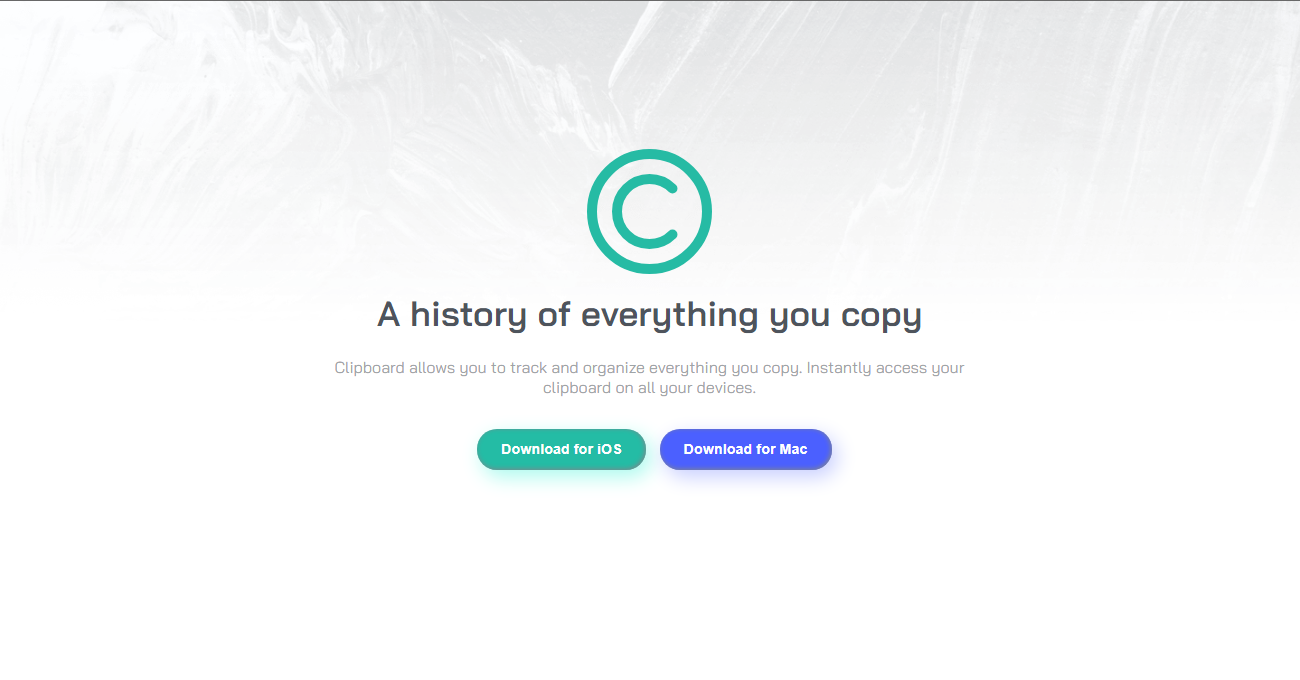
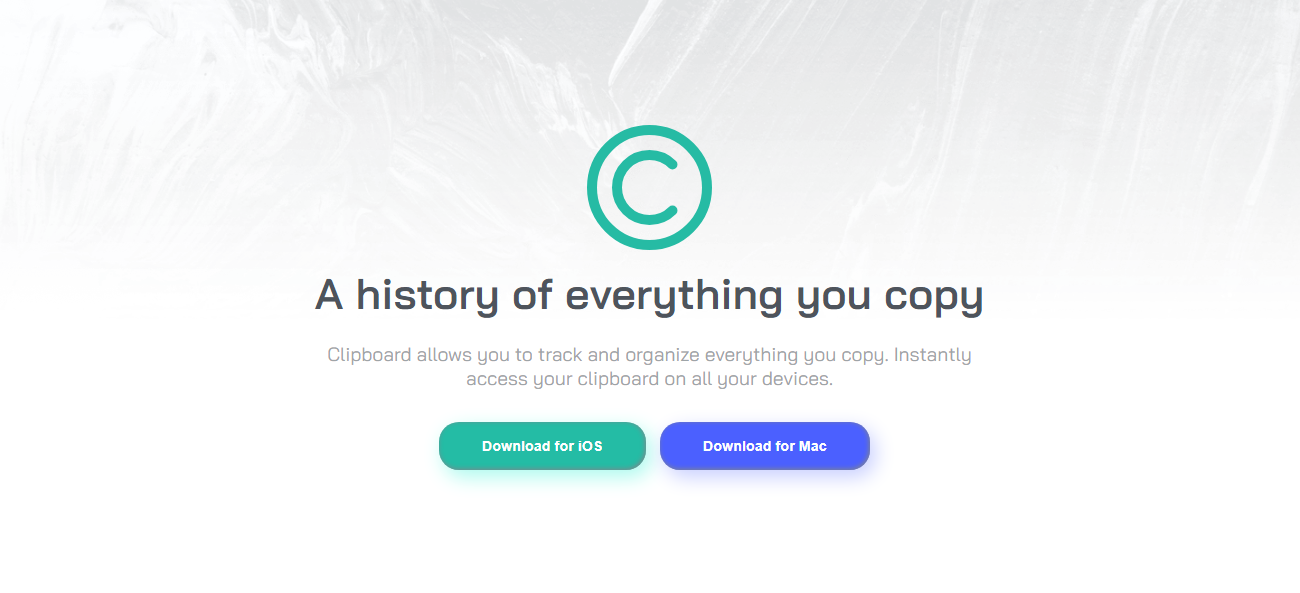
Adding the last updates

Changed region(s): [[0.2462, 0.425, 0.7692, 0.8196], [0.4308, 0.3339, 0.5538, 0.425], [0.4615, 0.2125, 0.5538, 0.2732]]

diff --git a/dist/styles.css b/dist/styles.css
@@ -1,1 +1,1 @@
-html{box-sizing:border-box}*,::before,::after{box-sizing:inherit;margin:0;padding:0}body{font-family:"Bai Jamjuree",sans-serif}h1,h2,h3{font-weight:600;line-height:1.1}a,a:visited,a:active{text-decoration:none}.bg-container{background-image:url(https://github.com/BlackFury117/Clipboard-landing-page/blob/main/images/bg-header-desktop.png?raw=true);background-repeat:no-repeat;background-size:contain;display:flex;justify-content:center;align-items:center}.bg-container .container{display:grid;grid-template-columns:repeat(3, 1fr);grid-template-rows:repeat(3, 0.5fr);gap:0px 0px;grid-auto-flow:row;justify-content:center;align-content:center;justify-items:center;align-items:center;grid-template-areas:"hero-img hero-img hero-img" "text-zone text-zone text-zone" "btn-zone btn-zone btn-zone";width:700px;margin-bottom:5rem}.bg-container .container .hero-img{grid-area:hero-img;margin-bottom:.5rem;margin-top:3rem}.bg-container .container .text-zone{grid-area:text-zone;text-align:center}.bg-container .container .text-zone h1{font-size:2.2rem;color:#4e545c;margin-bottom:1.5rem}.bg-container .container .text-zone .hero-text{color:#9ea4a7;margin-bottom:2rem}.bg-container .container .btn-zone{grid-area:btn-zone;align-self:start}.bg-container .container .btn-zone .btn{cursor:pointer;background-color:#24bca5;color:#fff;box-shadow:5px 7px 20px 0px #acfaee,inset -1px -1px 5px #81868c;font-size:.9rem;font-weight:bold;padding:.8rem 1.5rem;border:none;border-radius:20px;margin-left:.6rem}.bg-container .container .btn-zone .btn:hover{background-color:#50cdba;transition:.35s linear}.bg-container .container .btn-zone .btn-two{cursor:pointer;background-color:#24bca5;color:#fff;box-shadow:5px 7px 20px 0px #acfaee,inset -1px -1px 5px #81868c;font-size:.9rem;font-weight:bold;padding:.8rem 1.5rem;border:none;border-radius:20px;margin-left:.6rem;background-color:#4b60ff;box-shadow:5px 7px 20px 0px #c8cfff,inset -1px -1px 5px #81868c}.bg-container .container .btn-zone .btn-two:hover{background-color:#50cdba;transition:.35s linear}.bg-container .container .btn-zone .btn-two:hover{background-color:#828eee}@media only screen and (max-width: 600px){.bg-container{background-image:url(https://github.com/BlackFury117/Clipboard-landing-page/blob/main/images/bg-header-mobile.png?raw=true);background-repeat:no-repeat;background-size:contain;padding:0 1.5rem}.container{margin-bottom:1rem}.btn-zone{display:flex;flex-direction:column;align-items:center;width:100%}.btn,.btn-two{width:100%;margin-left:0 !important}.btn{margin-bottom:1.5rem}}.text{text-align:center;margin:0 auto 4rem auto;width:700px}.text h2{font-size:2.2rem;color:#4e545c;margin-bottom:1.5rem}.text .paragraph{color:#9ea4a7}.second-container{display:grid;grid-template-columns:1fr 1fr;grid-template-rows:1fr;gap:0px 0px;grid-auto-flow:row;grid-template-areas:"img-section text-section";margin-bottom:5rem}.second-container .img-section{grid-area:img-section}.second-container .img-one{width:90%;position:relative;left:-1.5rem}.second-container .text-section{align-self:center;grid-area:text-section;width:350px}.second-container .head{font-size:1.4rem;font-weight:bold;color:#4e545c}.second-container .body{color:#9ea4a7;margin-bottom:2rem;line-height:1.5}@media only screen and (max-width: 600px){.text{width:100%;padding:0 1.5rem}.second-container{display:grid;grid-template-columns:1fr;grid-template-rows:1fr 1fr;grid-auto-flow:row;grid-template-areas:"img-section" "text-section";padding:0 1.5rem}.second-container .img-section{align-self:center;grid-area:img-section}.second-container .text-section{align-self:center;grid-area:text-section}.second-container .img-one{position:static;width:100%;margin-bottom:2rem}.second-container .head,.second-container .body{text-align:center}}.third-section{text-align:center;margin:0 auto 4rem auto;width:700px}.third-section h3{font-size:2.2rem;color:#4e545c;margin-bottom:1.5rem}.third-section .paragraph-3{color:#9ea4a7;margin-bottom:3.6rem}.third-section .img-div{text-align:center;margin:0 auto;width:700px}@media only screen and (max-width: 600px){.third-section{width:100%;padding:0 1.5rem}.third-section .img-div{width:100%}}.fourth{text-align:center}.fourth h4{font-size:2.2rem;color:#4e545c;margin-bottom:1.5rem}.fourth .para-fourth{color:#9ea4a7;margin-bottom:3rem}.fourth-container{display:grid;grid-template-columns:1fr 1fr 1fr;grid-template-rows:1fr 1fr;gap:40px 0px;grid-auto-flow:row;grid-template-areas:"tools tools tools" "brand brand brand";margin:0 6rem 2rem 6rem}.fourth-container .tools{display:grid;grid-template-columns:1fr 1fr 1fr;grid-template-rows:1fr 1fr;gap:0px 25px;grid-auto-flow:row;grid-template-areas:"icon-1 icon-2 icon-3" "body-1 body-2 body-3";grid-area:tools}.fourth-container .icon-1{grid-area:icon-1;justify-self:center;align-self:center}.fourth-container .icon-2{grid-area:icon-2;justify-self:center;align-self:center}.fourth-container .icon-3{grid-area:icon-3;justify-self:center;align-self:center}.fourth-container .body-1{grid-area:body-1}.fourth-container .body-2{grid-area:body-2}.fourth-container .body-3{grid-area:body-3}.fourth-container .first{font-size:1.2rem;font-weight:bold;color:#4e545c;text-align:center;margin-bottom:1.2rem}.fourth-container .second{color:#9ea4a7;text-align:center}.fourth-container .brand{display:grid;grid-template-columns:1fr 1fr 1fr 1fr 1fr;grid-template-rows:1fr;gap:0px 0px;grid-auto-flow:row;grid-template-areas:"brand-1 brand-2 brand-3 brand-4 brand-5";grid-area:brand}.fourth-container .brand-1{grid-area:brand-1;justify-self:center;align-self:center}.fourth-container .brand-2{grid-area:brand-2;justify-self:center;align-self:center}.fourth-container .brand-3{grid-area:brand-3;justify-self:center;align-self:center}.fourth-container .brand-4{grid-area:brand-4;justify-self:center;align-self:center}.fourth-container .brand-5{grid-area:brand-5;justify-self:center;align-self:center}@media only screen and (max-width: 600px){.fourth{padding:0 1.5rem}.fourth-container{display:grid;grid-template-columns:1fr;grid-template-rows:1fr 1fr 1fr;grid-auto-flow:row;grid-template-areas:"tools" "tools" "tools" "brand" "brand" "brand";margin:0;padding:0 1.5rem}.fourth-container .tools{display:grid;grid-template-columns:1fr;grid-template-rows:1fr 1fr 1fr;gap:0px 0px;grid-auto-flow:row;grid-template-areas:"icon-1" "body-1" "icon-2" "body-2" "icon-3" "body-3";grid-area:tools;margin-bottom:6rem}.fourth-container .icon-3{margin-bottom:1.7rem}.fourth-container .body-1{margin-bottom:1.5rem}.fourth-container .body-2{margin-bottom:3.5rem}.fourth-container .brand{display:grid;grid-template-columns:1fr;grid-template-rows:1fr 1fr 1fr 1fr 1fr;gap:0px 0px;grid-auto-flow:row;grid-template-areas:"brand-1" "brand-2" "brand-3" "brand-4" "brand-5";grid-area:brand;margin-bottom:5rem}.fourth-container .brand-1,.fourth-container .brand-2,.fourth-container .brand-3,.fourth-container .brand-4{margin-bottom:2.7rem}}.last-section{text-align:center;width:700px;margin:0 auto 7rem auto}.last-section h5{font-size:2.2rem;color:#4e545c;margin-bottom:1.5rem}.last-section .last-paragraph{color:#9ea4a7;margin-bottom:2.5rem}.last-section .btn{cursor:pointer;background-color:#24bca5;color:#fff;box-shadow:5px 7px 20px 0px #acfaee,inset -1px -1px 5px #81868c;font-size:.9rem;font-weight:bold;padding:.8rem 1.5rem;border:none;border-radius:20px;margin-left:.6rem}.last-section .btn:hover{background-color:#50cdba;transition:.35s linear}.last-section .btn-two{cursor:pointer;background-color:#24bca5;color:#fff;box-shadow:5px 7px 20px 0px #acfaee,inset -1px -1px 5px #81868c;font-size:.9rem;font-weight:bold;padding:.8rem 1.5rem;border:none;border-radius:20px;margin-left:.6rem;background-color:#4b60ff;box-shadow:5px 7px 20px 0px #939fff,inset -1px -1px 5px #81868c}.last-section .btn-two:hover{background-color:#50cdba;transition:.35s linear}.last-section .btn-two:hover{background-color:#828eee}@media only screen and (max-width: 600px){.last-section{width:100%;padding:0 1.5rem;margin:0 auto 8rem auto}}.footer-container{display:grid;grid-template-columns:1fr 1fr 1fr 1fr 1fr;grid-template-rows:1fr;gap:0px 0px;grid-auto-flow:row;grid-template-areas:"footer-1 footer-2 footer-3 footer-4 footer-5";background-color:#f5f6f8;padding:2rem 6rem 2rem 6rem}.footer-container .footer-1{grid-area:footer-1}.footer-container .footer-img{width:50px}.footer-container .footer-2{display:grid;grid-template-columns:1fr;grid-template-rows:1fr 1fr;gap:0px 0px;grid-auto-flow:row;grid-template-areas:"faq" "contact";grid-area:footer-2}.footer-container .faq{grid-area:faq}.footer-container .contact{grid-area:contact}.footer-container .footer-3{display:grid;grid-template-columns:1fr;grid-template-rows:1fr 1fr;gap:0px 0px;grid-auto-flow:row;grid-template-areas:"privacy" "press";grid-area:footer-3;color:#9ea4a7}.footer-container .privacy{grid-area:privacy;color:#9ea4a7}.footer-container .press{grid-area:press;color:#9ea4a7}.footer-container .footer-4{grid-area:footer-4;color:#9ea4a7}.footer-container .footer-5{grid-area:footer-5;justify-self:end}.footer-container .icon-footer{padding-right:.8rem}.footer-container .link{color:#9ea4a7}.footer-container .link:hover{color:#24bca5;font-weight:bold}.footer-container .icon-footer{color:#4b545a}.footer-container .icon-footer:hover{cursor:pointer;color:#24bca5}@media only screen and (max-width: 600px){.footer-container{display:grid;grid-template-columns:1fr;grid-template-rows:1fr 1fr 1fr 1fr 1fr;justify-items:center;gap:0px 0px;grid-auto-flow:row;grid-template-areas:"footer-1" "footer-2" "footer-3" "footer-4" "footer-5"}.footer-container .footer-1{margin-bottom:1.5rem}.footer-container .footer-5{justify-self:center}.footer-container .faq,.footer-container .contact,.footer-container .privacy,.footer-container .press{justify-self:center}.footer-container .icon-footer{font-size:2rem}}/*# sourceMappingURL=styles.css.map */
+html{box-sizing:border-box}*,::before,::after{box-sizing:inherit;margin:0;padding:0}body{font-family:"Bai Jamjuree",sans-serif}h1,h2,h3{font-weight:600;line-height:1.1}a,a:visited,a:active{text-decoration:none}.bg-container{background-image:url(https://github.com/BlackFury117/Clipboard-landing-page/blob/main/images/bg-header-desktop.png?raw=true);background-repeat:no-repeat;background-size:contain;display:flex;justify-content:center;align-items:center}.bg-container .container{display:grid;grid-template-columns:repeat(3, 1fr);grid-template-rows:repeat(3, 0.5fr);gap:0px 0px;grid-auto-flow:row;justify-content:center;align-content:center;justify-items:center;align-items:center;grid-template-areas:"hero-img hero-img hero-img" "text-zone text-zone text-zone" "btn-zone btn-zone btn-zone";width:700px;margin-bottom:5rem}.bg-container .container .hero-img{grid-area:hero-img;margin-bottom:.5rem;margin-top:3rem}.bg-container .container .text-zone{grid-area:text-zone;text-align:center}.bg-container .container .text-zone h1{font-size:2.2rem;color:#4e545c;margin-bottom:1.5rem;font-size:2.7rem}.bg-container .container .text-zone .hero-text{font-size:1.2rem;color:#9ea4a7;margin-bottom:2rem}.bg-container .container .btn-zone{grid-area:btn-zone;align-self:start}.bg-container .container .btn-zone .btn{cursor:pointer;background-color:#24bca5;color:#fff;box-shadow:5px 7px 20px 0px #acfaee,inset -1px -1px 5px #81868c;font-size:.9rem;font-weight:bold;padding:1rem 2.7rem;border:none;border-radius:20px;margin-left:.6rem}.bg-container .container .btn-zone .btn:hover{background-color:#50cdba;transition:.35s linear}.bg-container .container .btn-zone .btn-two{cursor:pointer;background-color:#24bca5;color:#fff;box-shadow:5px 7px 20px 0px #acfaee,inset -1px -1px 5px #81868c;font-size:.9rem;font-weight:bold;padding:1rem 2.7rem;border:none;border-radius:20px;margin-left:.6rem;background-color:#4b60ff;box-shadow:5px 7px 20px 0px #c8cfff,inset -1px -1px 5px #81868c}.bg-container .container .btn-zone .btn-two:hover{background-color:#50cdba;transition:.35s linear}.bg-container .container .btn-zone .btn-two:hover{background-color:#828eee}@media only screen and (max-width: 600px){.bg-container{background-image:url(https://github.com/BlackFury117/Clipboard-landing-page/blob/main/images/bg-header-mobile.png?raw=true);background-repeat:no-repeat;background-size:contain;padding:0 1.5rem;margin-bottom:2rem}h1{font-size:2.1rem !important}.btn-zone{display:flex;flex-direction:column;align-items:center;width:100%}.btn,.btn-two{width:100%;margin-left:0 !important}.btn{margin-bottom:1.5rem}}.text{text-align:center;margin:0 auto 4rem auto;width:700px}.text h2{font-size:2.2rem;color:#4e545c;margin-bottom:1.5rem}.text .paragraph{color:#9ea4a7}.second-container{display:grid;grid-template-columns:1fr 1fr;grid-template-rows:1fr;gap:0px 0px;grid-auto-flow:row;grid-template-areas:"img-section text-section";margin-bottom:5rem}.second-container .img-section{grid-area:img-section}.second-container .img-one{width:90%;position:relative;left:-1.7rem}.second-container .text-section{align-self:center;grid-area:text-section;width:350px}.second-container .head{font-size:1.4rem;font-weight:bold;color:#4e545c}.second-container .body{color:#9ea4a7;margin-bottom:2rem;line-height:1.5}@media only screen and (max-width: 600px){.text{width:100%;padding:0 1.5rem}.second-container{display:grid;grid-template-columns:1fr;grid-template-rows:1fr 1fr;grid-auto-flow:row;grid-template-areas:"img-section" "text-section";padding:0 1.5rem}.second-container .img-section{align-self:center;grid-area:img-section}.second-container .text-section{align-self:center;grid-area:text-section}.second-container .img-one{position:static;width:100%;margin-bottom:2rem}.second-container .head,.second-container .body{text-align:center}}.third-section{text-align:center;margin:0 auto 4rem auto;width:700px}.third-section h3{font-size:2.2rem;color:#4e545c;margin-bottom:1.5rem}.third-section .paragraph-3{color:#9ea4a7;margin-bottom:3.6rem}.third-section .img-div{text-align:center;margin:0 auto;width:700px}@media only screen and (max-width: 600px){.third-section{width:100%;padding:0 1.5rem}.third-section .img-div{width:100%}}.fourth{text-align:center}.fourth h4{font-size:2.2rem;color:#4e545c;margin-bottom:1.5rem}.fourth .para-fourth{color:#9ea4a7;margin-bottom:3rem}.fourth-container{display:grid;grid-template-columns:1fr 1fr 1fr;grid-template-rows:1fr 1fr;gap:40px 0px;grid-auto-flow:row;grid-template-areas:"tools tools tools" "brand brand brand";margin:0 6rem 2rem 6rem}.fourth-container .tools{display:grid;grid-template-columns:1fr 1fr 1fr;grid-template-rows:1fr 1fr;gap:0px 25px;grid-auto-flow:row;grid-template-areas:"icon-1 icon-2 icon-3" "body-1 body-2 body-3";grid-area:tools}.fourth-container .icon-1{grid-area:icon-1;justify-self:center;align-self:center}.fourth-container .icon-2{grid-area:icon-2;justify-self:center;align-self:center}.fourth-container .icon-3{grid-area:icon-3;justify-self:center;align-self:center}.fourth-container .body-1{grid-area:body-1}.fourth-container .body-2{grid-area:body-2}.fourth-container .body-3{grid-area:body-3}.fourth-container .first{font-size:1.2rem;font-weight:bold;color:#4e545c;text-align:center;margin-bottom:1.2rem}.fourth-container .second{color:#9ea4a7;text-align:center}.fourth-container .brand{display:grid;grid-template-columns:1fr 1fr 1fr 1fr 1fr;grid-template-rows:1fr;gap:0px 0px;grid-auto-flow:row;grid-template-areas:"brand-1 brand-2 brand-3 brand-4 brand-5";grid-area:brand}.fourth-container .brand-1{grid-area:brand-1;justify-self:center;align-self:center}.fourth-container .brand-2{grid-area:brand-2;justify-self:center;align-self:center}.fourth-container .brand-3{grid-area:brand-3;justify-self:center;align-self:center}.fourth-container .brand-4{grid-area:brand-4;justify-self:center;align-self:center}.fourth-container .brand-5{grid-area:brand-5;justify-self:center;align-self:center}@media only screen and (max-width: 600px){.fourth{padding:0 1.5rem}.fourth-container{display:grid;grid-template-columns:1fr;grid-template-rows:1fr 1fr 1fr;grid-auto-flow:row;grid-template-areas:"tools" "tools" "tools" "brand" "brand" "brand";margin:0;padding:0 1.5rem}.fourth-container .tools{display:grid;grid-template-columns:1fr;grid-template-rows:1fr 1fr 1fr;gap:0px 0px;grid-auto-flow:row;grid-template-areas:"icon-1" "body-1" "icon-2" "body-2" "icon-3" "body-3";grid-area:tools;margin-bottom:6rem}.fourth-container .icon-3{margin-bottom:1.7rem}.fourth-container .body-1{margin-bottom:1.5rem}.fourth-container .body-2{margin-bottom:3.5rem}.fourth-container .brand{display:grid;grid-template-columns:1fr;grid-template-rows:1fr 1fr 1fr 1fr 1fr;gap:0px 0px;grid-auto-flow:row;grid-template-areas:"brand-1" "brand-2" "brand-3" "brand-4" "brand-5";grid-area:brand;margin-bottom:5rem}.fourth-container .brand-1,.fourth-container .brand-2,.fourth-container .brand-3,.fourth-container .brand-4{margin-bottom:2.7rem}}.last-section{text-align:center;width:700px;margin:0 auto 7rem auto}.last-section h5{font-size:2.2rem;color:#4e545c;margin-bottom:1.5rem}.last-section .last-paragraph{color:#9ea4a7;margin-bottom:2.5rem}.last-section .btn{cursor:pointer;background-color:#24bca5;color:#fff;box-shadow:5px 7px 20px 0px #acfaee,inset -1px -1px 5px #81868c;font-size:.9rem;font-weight:bold;padding:1rem 2.7rem;border:none;border-radius:20px;margin-left:.6rem}.last-section .btn:hover{background-color:#50cdba;transition:.35s linear}.last-section .btn-two{cursor:pointer;background-color:#24bca5;color:#fff;box-shadow:5px 7px 20px 0px #acfaee,inset -1px -1px 5px #81868c;font-size:.9rem;font-weight:bold;padding:1rem 2.7rem;border:none;border-radius:20px;margin-left:.6rem;background-color:#4b60ff;box-shadow:5px 7px 20px 0px #939fff,inset -1px -1px 5px #81868c}.last-section .btn-two:hover{background-color:#50cdba;transition:.35s linear}.last-section .btn-two:hover{background-color:#828eee}@media only screen and (max-width: 600px){.last-section{width:100%;padding:0 1.5rem;margin:0 auto 8rem auto}}.footer-container{display:grid;grid-template-columns:1fr 1fr 1fr 1fr 1fr;grid-template-rows:1fr;gap:0px 0px;grid-auto-flow:row;grid-template-areas:"footer-1 footer-2 footer-3 footer-4 footer-5";background-color:#f5f6f8;padding:2rem 6rem 2rem 6rem}.footer-container .footer-1{grid-area:footer-1}.footer-container .footer-img{width:50px}.footer-container .footer-2{display:grid;grid-template-columns:1fr;grid-template-rows:1fr 1fr;gap:0px 0px;grid-auto-flow:row;grid-template-areas:"faq" "contact";grid-area:footer-2}.footer-container .faq{grid-area:faq}.footer-container .contact{grid-area:contact}.footer-container .footer-3{display:grid;grid-template-columns:1fr;grid-template-rows:1fr 1fr;gap:0px 0px;grid-auto-flow:row;grid-template-areas:"privacy" "press";grid-area:footer-3;color:#9ea4a7}.footer-container .privacy{grid-area:privacy;color:#9ea4a7}.footer-container .press{grid-area:press;color:#9ea4a7}.footer-container .footer-4{grid-area:footer-4;color:#9ea4a7}.footer-container .footer-5{grid-area:footer-5;justify-self:end}.footer-container .icon-footer{padding-right:.8rem}.footer-container .link{color:#9ea4a7}.footer-container .link:hover{color:#24bca5;font-weight:bold}.footer-container .icon-footer{color:#4b545a}.footer-container .icon-footer:hover{cursor:pointer;color:#24bca5}@media only screen and (max-width: 600px){.footer-container{display:grid;grid-template-columns:1fr;grid-template-rows:1fr 1fr 1fr 1fr 1fr;justify-items:center;gap:0px 0px;grid-auto-flow:row;grid-template-areas:"footer-1" "footer-2" "footer-3" "footer-4" "footer-5"}.footer-container .footer-1{margin-bottom:1.5rem}.footer-container .footer-5{justify-self:center}.footer-container .faq,.footer-container .contact,.footer-container .privacy,.footer-container .press{justify-self:center}.footer-container .icon-footer{font-size:2rem}}/*# sourceMappingURL=styles.css.map */

diff --git a/scss/styles.scss b/scss/styles.scss
@@ -1,7 +1,6 @@
 @use 'globals/reset';
 @use 'globals/typography';
 @use 'globals/variables';
-// @use 'globals/mixin.scss';
 
 @mixin button-style{
     cursor: pointer;
@@ -10,7 +9,7 @@
     box-shadow: 5px 7px 20px 0px #acfaee, inset -1px -1px 5px #81868c;
     font-size: 0.900rem;
     font-weight: bold;
-    padding: 0.800rem 1.5rem;
+    padding: 1rem 2.7rem;
     border: none;
     border-radius: 20px;
     margin-left: 0.600rem;
@@ -36,7 +35,6 @@
     display: flex;
     justify-content: center;
     align-items: center;
-    // min-height: 100vh;
 
     .container{  
         display: grid;
@@ -67,9 +65,11 @@
     
             h1{
                 @include heading-style;
+                font-size: 2.7rem;
             }
             
             .hero-text{
+                font-size: 1.2rem;
                 color: variables.$color-text;
                 margin-bottom: 2rem;
             }
@@ -102,10 +102,11 @@
         background-repeat: no-repeat;
         background-size: contain;
         padding: 0 1.5rem;
+        margin-bottom: 2rem;
     }
 
-    .container{
-        margin-bottom: 1rem;
+    h1{
+        font-size: 2.1rem !important;
     }
 
     .btn-zone{
@@ -158,7 +159,7 @@
     .img-one {
         width: 90%;
         position: relative;
-        left: -1.5rem;
+        left: -1.7rem;
     }
 
     .text-section{
